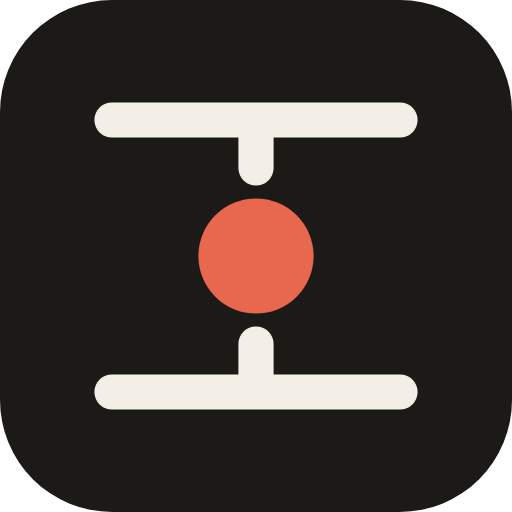
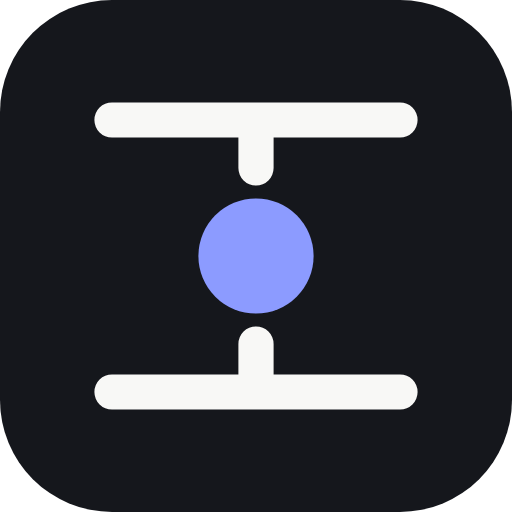
New palette: clean paper, blue-black ink and an ink-blue accent
The old cream, brown-black and terracotta look is the one a lot of apps
share. Light is now a neutral off-white with blue-black ink, dark a cool
near-black, and ink blue (not red) is the default focus colour. The accent
also fills the play button, the demo button, progress and the current-word
mark, so it reads as the app's colour. Sepia is unchanged. A red saved as
the old default moves to blue; other picks stay. New app icon to match.

Also: CLAUDE.md now asks for screenshots in PRs that change the look.

Changed region(s): [[0.375, 0.375, 0.625, 0.625]]

diff --git a/src/index.css b/src/index.css
@@ -1,21 +1,25 @@
-/* Warm paper and ink: a beige page in light mode, a warm near-black in dark
-   mode, with a single red for the focus letter and marker. Secondary text is
-   darkened from the classic paper grey so it stays readable (≥ 4.5:1). */
+/* Paper and ink. Light is a clean, neutral page (not beige) with blue-black
+   ink; dark is a cool near-black. The focus letter, marker and pacer default
+   to ink blue rather than the red most speed readers use. Secondary text
+   stays readable (≥ 4.5:1) on every theme. */
 :root {
-  --bg: #f3efe6;
-  --bg-2: #ece6da;
-  --fill: #e4ddcf;
-  --raised: #fbf8f2;
-  --text: #1c1a17;
-  --text-2: #6b645a;
-  --separator: #d9d1c2;
-  --red: #c23b25;
-  --shadow: 0 12px 32px rgb(60 45 20 / 0.16);
+  --bg: #f8f8f6;
+  --bg-2: #efefec;
+  --fill: #e6e6e2;
+  --raised: #ffffff;
+  --text: #15171c;
+  --text-2: #5b606b;
+  --separator: #dcdcd8;
+  --red: #c62f1e;
+  --shadow: 0 12px 32px rgb(20 24 34 / 0.14);
+  --scrim: rgb(12 14 20 / 0.32);
   /* The focus letter, page marker and pacer. Each focus colour has a shade
      for light pages and one for dark; the theme picks which. */
-  --accent-l: #c23b25;
-  --accent-d: #e8674f;
+  --accent-l: #2f45d0;
+  --accent-d: #8c9bff;
   --accent: var(--accent-l);
+  /* Text and icons on an accent-filled button. */
+  --on-accent: #ffffff;
 
   --font: system-ui, -apple-system, BlinkMacSystemFont, 'Segoe UI', Roboto, 'Helvetica Neue', Arial, sans-serif;
   --serif: ui-serif, 'Iowan Old Style', 'Palatino Linotype', Palatino, Georgia, 'Times New Roman', serif;
@@ -37,31 +41,35 @@
 /* Themes: no data-theme follows the system; the Aa menu can pick one. */
 @media (prefers-color-scheme: dark) {
   :root:not([data-theme]) {
-    --bg: #141311;
-    --bg-2: #1c1a17;
-    --fill: #2a2723;
-    --raised: #45403a;
-    --text: #ebe5d8;
-    --text-2: #a39c90;
-    --separator: #2f2c27;
-    --red: #e8674f;
-    --shadow: 0 12px 32px rgb(0 0 0 / 0.55);
+    --bg: #0e0f12;
+    --bg-2: #16171b;
+    --fill: #22242a;
+    --raised: #2d3038;
+    --text: #ecedf0;
+    --text-2: #9a9fa9;
+    --separator: #26282e;
+    --red: #ff7a66;
+    --shadow: 0 12px 32px rgb(0 0 0 / 0.6);
+    --scrim: rgb(0 0 0 / 0.5);
     --accent: var(--accent-d);
+    --on-accent: #0e0f12;
   }
 }
 :root[data-theme='light'] { color-scheme: light; }
 :root[data-theme='dark'] {
   color-scheme: dark;
-  --bg: #141311;
-  --bg-2: #1c1a17;
-  --fill: #2a2723;
-  --raised: #45403a;
-  --text: #ebe5d8;
-  --text-2: #a39c90;
-  --separator: #2f2c27;
-  --red: #e8674f;
-  --shadow: 0 12px 32px rgb(0 0 0 / 0.55);
+  --bg: #0e0f12;
+  --bg-2: #16171b;
+  --fill: #22242a;
+  --raised: #2d3038;
+  --text: #ecedf0;
+  --text-2: #9a9fa9;
+  --separator: #26282e;
+  --red: #ff7a66;
+  --shadow: 0 12px 32px rgb(0 0 0 / 0.6);
+  --scrim: rgb(0 0 0 / 0.5);
   --accent: var(--accent-d);
+  --on-accent: #0e0f12;
 }
 /* Sepia: warmer and lower-contrast than light, for long reads. */
 :root[data-theme='sepia'] {
@@ -75,11 +83,12 @@
   --separator: #dbc6a0;
   --red: #b0391f;
   --shadow: 0 12px 32px rgb(80 55 20 / 0.18);
+  --scrim: rgb(40 28 10 / 0.3);
 }
 
-:root[data-accent='blue'] { --accent-l: #2d5bb5; --accent-d: #6f9cf0; }
-:root[data-accent='green'] { --accent-l: #2f7a45; --accent-d: #5cb87a; }
-:root[data-accent='purple'] { --accent-l: #7a45b8; --accent-d: #b18ae8; }
+:root[data-accent='red'] { --accent-l: #cf3a1d; --accent-d: #ff7a5c; }
+:root[data-accent='green'] { --accent-l: #13774a; --accent-d: #4cc98a; }
+:root[data-accent='purple'] { --accent-l: #6b3fd0; --accent-d: #b69cff; }
 :root[data-font='serif'] { --reading-font: var(--serif); }
 
 * { box-sizing: border-box; }
@@ -265,8 +274,8 @@ h1, h2, p { margin: 0; }
   padding: 0 1.1rem 0 0.9rem;
   border: 0;
   border-radius: 999px;
-  background: var(--text);
-  color: var(--bg);
+  background: var(--accent);
+  color: var(--on-accent);
   font-weight: 600;
 }
 @media (max-width: 520px) {
@@ -308,7 +317,7 @@ h1, h2, p { margin: 0; }
   justify-content: center;
   padding: 0.35rem 0.3rem 0.35rem 0.45rem;
   overflow: hidden;
-  color: #f6efe2;
+  color: #f8f8f6;
   font-family: var(--serif, Georgia, serif);
   font-size: 0.6rem;
   font-weight: 600;
@@ -320,7 +329,7 @@ h1, h2, p { margin: 0; }
 .shelf-title { font-size: 1.05rem; font-weight: 600; overflow: hidden; text-overflow: ellipsis; white-space: nowrap; }
 .shelf-meta { font-size: 0.875rem; }
 .bar { height: 4px; border-radius: 2px; background: var(--fill); overflow: hidden; margin-top: 0.4rem; }
-.bar > span { display: block; height: 100%; border-radius: 2px; background: var(--text); }
+.bar > span { display: block; height: 100%; border-radius: 2px; background: var(--accent); }
 .shelf-remove { color: var(--text-2); flex-shrink: 0; }
 /* Backup: one quiet line under the shelf. */
 .backup {
@@ -554,7 +563,13 @@ h1, h2, p { margin: 0; }
 .context { width: 100%; max-width: 36rem; margin: 0 auto; min-height: 0; }
 .context p { color: var(--text-2); font-family: var(--reading-font); font-size: 1rem; line-height: 1.65; overflow-wrap: anywhere; animation: fade-in 0.3s ease; }
 .context span { cursor: pointer; }
-.context .current { color: var(--text); background: var(--fill); border-radius: 4px; box-shadow: 0 0 0 2px var(--fill); }
+.context .current {
+  --mark: color-mix(in srgb, var(--accent) 16%, transparent);
+  color: var(--text);
+  background: var(--mark);
+  border-radius: 4px;
+  box-shadow: 0 0 0 2px var(--mark);
+}
 @keyframes fade-in { from { opacity: 0; } }
 @keyframes fade-out { to { opacity: 0; } }
 
@@ -579,7 +594,7 @@ h1, h2, p { margin: 0; }
   background: var(--separator);
   overflow: hidden;
 }
-.scrubber-fill { height: 100%; background: var(--text); }
+.scrubber-fill { height: 100%; background: var(--accent); }
 .scrubber-thumb {
   position: absolute;
   top: 50%;
@@ -728,8 +743,8 @@ h1, h2, p { margin: 0; }
   margin: 0 0.35rem;
   border: 0;
   border-radius: 50%;
-  background: var(--text);
-  color: var(--bg);
+  background: var(--accent);
+  color: var(--on-accent);
   transition: transform 0.1s;
 }
 .play-button:active { transform: scale(0.95); }
@@ -900,7 +915,7 @@ kbd {
   inset: 0;
   display: flex;
   justify-content: flex-end;
-  background: rgb(28 22 12 / 0.35);
+  background: var(--scrim);
   z-index: 10;
   animation: fade-in 0.15s ease;
 }
@@ -1060,7 +1075,7 @@ html:has(.search-backdrop), html:has(.search-backdrop) body { overflow: hidden; 
   .speed { grid-row: 2; }
 
   /* Settings become a bottom sheet within thumb reach, over a dimmed page. */
-  .popover-backdrop { background: rgb(28 22 12 / 0.25); animation: fade-in 0.2s ease; }
+  .popover-backdrop { background: var(--scrim); animation: fade-in 0.2s ease; }
   .popover {
     position: fixed;
     top: auto;

diff --git a/src/lib/storage.ts b/src/lib/storage.ts
@@ -120,6 +120,8 @@ export function recordReading(ms: number, words: number): Promise<void> {
 
 // Old name kept, like the database, so settings carry over.
 const SETTINGS_KEY = storageName('rsvp-settings')
+/** Bumped when a saved setting needs migrating; see loadSettings. */
+const SETTINGS_VERSION = 2
 
 export interface Settings {
   wpm: number
@@ -151,7 +153,7 @@ export type PlayControl = 'tap' | 'hold'
 
 export const THEMES: Theme[] = ['system', 'light', 'sepia', 'dark']
 export const FONTS: ReadingFont[] = ['sans', 'serif']
-export const ACCENTS: Accent[] = ['red', 'blue', 'green', 'purple']
+export const ACCENTS: Accent[] = ['blue', 'red', 'green', 'purple']
 export const PLAY_CONTROLS: PlayControl[] = ['tap', 'hold']
 
 export const DEFAULT_SETTINGS: Settings = {
@@ -161,7 +163,7 @@ export const DEFAULT_SETTINGS: Settings = {
   mode: 'word',
   theme: 'system',
   font: 'sans',
-  accent: 'red',
+  accent: 'blue',
   pageHighlight: true,
   pacer: true,
   playControl: 'tap',
@@ -180,7 +182,9 @@ export function loadSettings(): Settings {
       mode: saved.mode === 'page' ? 'page' : DEFAULT_SETTINGS.mode,
       theme: oneOf(THEMES, saved.theme, DEFAULT_SETTINGS.theme),
       font: oneOf(FONTS, saved.font, DEFAULT_SETTINGS.font),
-      accent: oneOf(ACCENTS, saved.accent, DEFAULT_SETTINGS.accent),
+      // Red was the default before the palette changed (settings version 2),
+      // so a red saved from then moves to the new default; other picks stay.
+      accent: oneOf(ACCENTS, saved.v >= 2 || saved.accent !== 'red' ? saved.accent : undefined, DEFAULT_SETTINGS.accent),
       pageHighlight: saved.pageHighlight !== false,
       pacer: saved.pacer !== false,
       playControl: oneOf(PLAY_CONTROLS, saved.playControl, DEFAULT_SETTINGS.playControl),
@@ -192,7 +196,7 @@ export function loadSettings(): Settings {
 
 export function saveSettings(settings: Settings): void {
   try {
-    localStorage.setItem(SETTINGS_KEY, JSON.stringify(settings))
+    localStorage.setItem(SETTINGS_KEY, JSON.stringify({ ...settings, v: SETTINGS_VERSION }))
   } catch {
     // Storage unavailable (private mode etc.) — settings just won't persist.
   }

diff --git a/index.html b/index.html
@@ -2,13 +2,13 @@
 <html lang="en">
   <head>
     <meta charset="UTF-8" />
-    <link rel="icon" href="./favicon.ico?v=2" sizes="32x32" />
-    <link rel="icon" type="image/svg+xml" href="./favicon.svg?v=2" />
-    <link rel="apple-touch-icon" href="./apple-touch-icon.png?v=2" />
+    <link rel="icon" href="./favicon.ico?v=3" sizes="32x32" />
+    <link rel="icon" type="image/svg+xml" href="./favicon.svg?v=3" />
+    <link rel="apple-touch-icon" href="./apple-touch-icon.png?v=3" />
     <link rel="manifest" href="./manifest.webmanifest" />
     <meta name="description" content="Speed-read your books one word at a time. Files stay on your device." />
-    <meta name="theme-color" content="#f3efe6" media="(prefers-color-scheme: light)" />
-    <meta name="theme-color" content="#141311" media="(prefers-color-scheme: dark)" />
+    <meta name="theme-color" content="#f8f8f6" media="(prefers-color-scheme: light)" />
+    <meta name="theme-color" content="#0e0f12" media="(prefers-color-scheme: dark)" />
     <meta name="viewport" content="width=device-width, initial-scale=1, viewport-fit=cover" />
     <meta name="apple-mobile-web-app-capable" content="yes" />
     <meta name="apple-mobile-web-app-status-bar-style" content="default" />

diff --git a/src/components/SettingsMenu.tsx b/src/components/SettingsMenu.tsx
@@ -44,10 +44,10 @@ const FONT_OPTIONS: { value: ReadingFont; label: string }[] = [
 
 /** Swatch colours; the CSS (data-accent) holds the light and dark shades used in the reader. */
 const ACCENT_OPTIONS: { value: Accent; label: string; color: string }[] = [
-  { value: 'red', label: 'Red', color: '#c23b25' },
-  { value: 'blue', label: 'Blue', color: '#2d5bb5' },
-  { value: 'green', label: 'Green', color: '#2f7a45' },
-  { value: 'purple', label: 'Purple', color: '#7a45b8' },
+  { value: 'blue', label: 'Blue', color: '#2f45d0' },
+  { value: 'red', label: 'Red', color: '#cf3a1d' },
+  { value: 'green', label: 'Green', color: '#13774a' },
+  { value: 'purple', label: 'Purple', color: '#6b3fd0' },
 ]
 
 const SHORTCUTS: [string, string][] = [

diff --git a/src/components/Library.tsx b/src/components/Library.tsx
@@ -252,7 +252,7 @@ export function Library({
 }
 
 /** Muted cloth colours for books without a cover image, picked from the book id. */
-const COVER_TONES = ['#8a5a44', '#4f6b5a', '#5a6480', '#7a6a4a', '#6b4f6b', '#4a6a73']
+const COVER_TONES = ['#23386b', '#7a2f2a', '#245945', '#4d3f7a', '#8a6326', '#2b5a68']
 
 function Cover({ book }: { book: BookMeta }) {
   if (book.cover) return <img className="cover" src={book.cover} alt="" loading="lazy" />

diff --git a/src/lib/appearance.ts b/src/lib/appearance.ts
@@ -1,7 +1,7 @@
 import type { Settings } from './storage'
 
 /** Page colour of each theme, for the browser's toolbar (theme-color). */
-const BACKGROUND = { light: '#f3efe6', sepia: '#f4e8d0', dark: '#141311' }
+const BACKGROUND = { light: '#f8f8f6', sepia: '#f4e8d0', dark: '#0e0f12' }
 
 /**
  * Apply the theme, reading font and focus colour to the page. Runs

diff --git a/CLAUDE.md b/CLAUDE.md
@@ -37,7 +37,7 @@ The parts that deserve a careful look: tricky logic, trade-offs, behavior change
 What was run and what it showed: unit tests added or changed, manual or browser checks (devices, modes, formats), and anything not tested.
 ```
 
-- Screenshots or short tables are welcome inside these sections when they help, especially for UI changes.
+- Include screenshots whenever a PR changes what the app looks like: before and after, at phone and desktop sizes (and light and dark when colours change). Put them in the section where they help most, usually "How it's tested". Short tables are welcome too.
 - Do not include a Claude session link (`claude.ai/code/session_…`) in PR titles or descriptions.
 - Keep titles short and descriptive.
 
